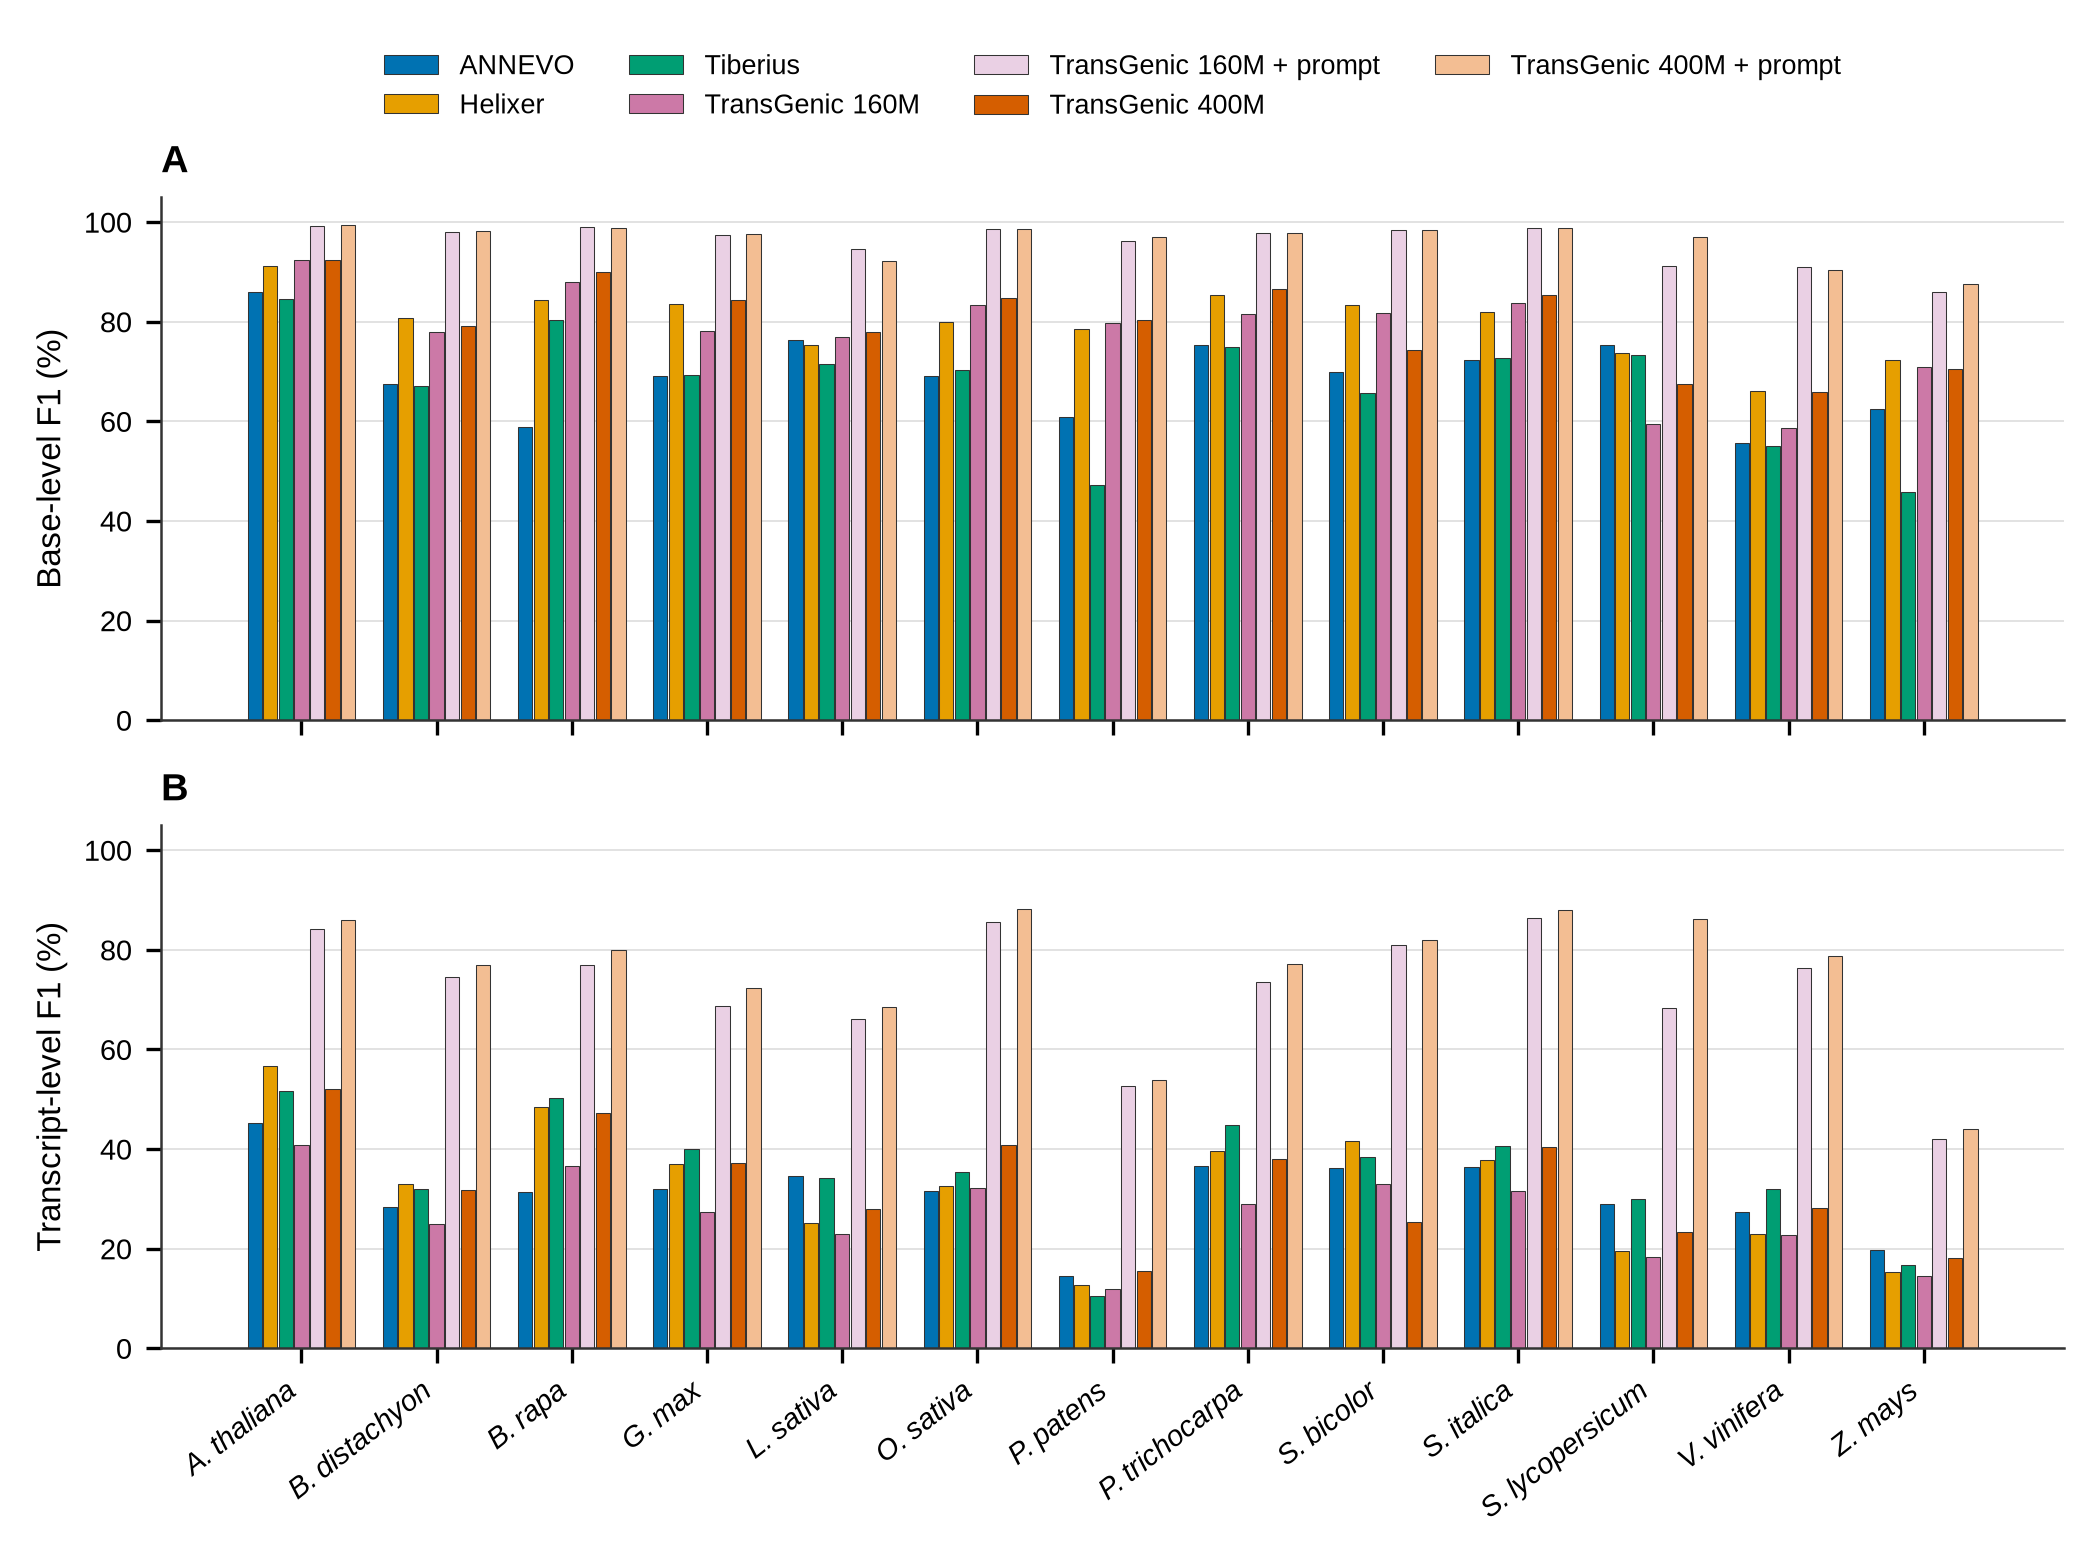
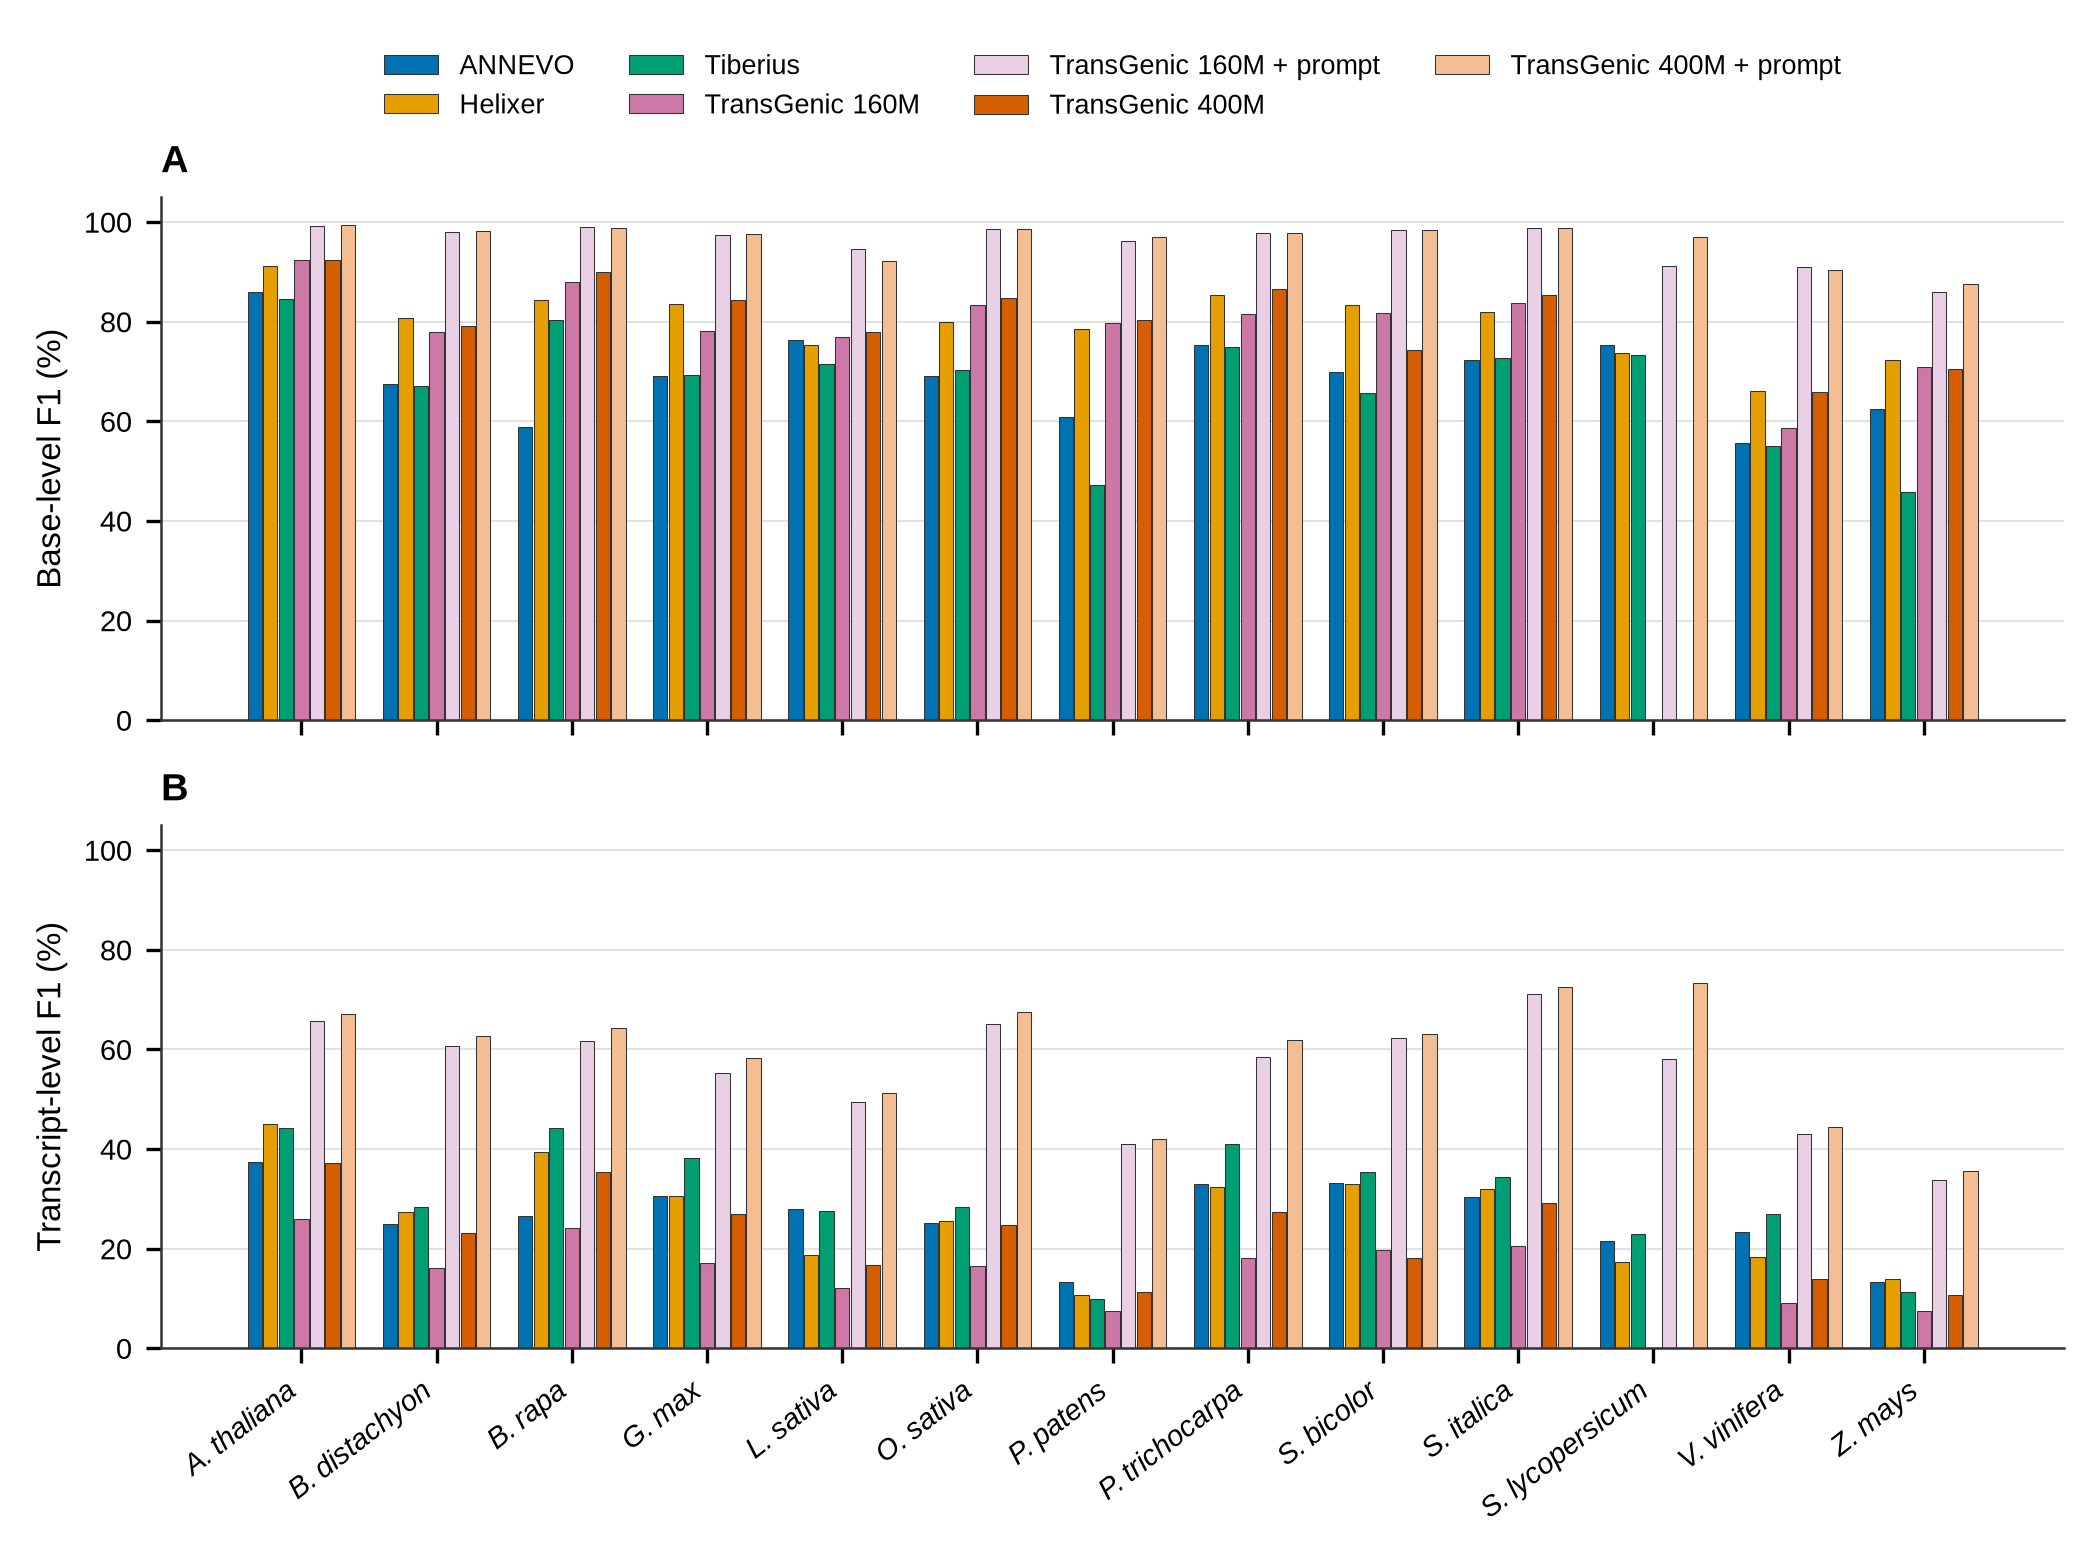
Score the benchmark and the isoform analyses with the same GFFCompare release
Table S2 and Figure 5 used GFFCompare v0.12.10; every isoform analysis used v0.12.6.
Scoring the same top-beam A. thaliana completion-mode prediction against the same
reference gives transcript-level 79.3/93.7 under v0.12.10 and 62.0/73.3 under v0.12.6.
The paper printed both scales without a way to reconcile them, and the gap read as a
contradiction between two of its own figures.

29_rescore_benchmark_v0126.py re-scores all 128 species-tool combinations on v0.12.6,
so Figure 5 and Figure 6 now share a scale: A. thaliana completion mode is 67.2 F1 in
the benchmark against 67.6 in the isoform evaluation, the residual difference being the
reference file and the isoform pipeline's collapsing of duplicate matches. Base-level
values are identical between releases, so Figure 5A and the "8 of 13 species" claim are
unaffected. Transcript-level values fall across the board — v0.12.10 is the more
permissive release — and the completion-mode margin over the best de novo tool is 17 to
48 F1 points, not 24 to 53.

Table S10 now records one release for the main analyses and flags the chromosome-4
pilot, which was run earlier on v0.12.10, as not poolable.

Also in this pass: Tiberius is additionally cited as Gabriel et al. 2026, the paper its
authors ask non-mammalian users to cite, since the models benchmarked here are the
plant ones.

163/163 checks, citations 57 = 57.

diff --git a/revision/scripts/29_rescore_benchmark_v0126.py b/revision/scripts/29_rescore_benchmark_v0126.py
@@ -1,0 +1,161 @@
+#!/usr/bin/env python3
+"""Re-score the 13-species benchmark with GFFCompare v0.12.6, the release used elsewhere.
+
+Table S2 and Figure 5 were produced with GFFCompare **v0.12.10**; every isoform-level
+analysis in the paper (Table S4, Figure 6) uses **v0.12.6**. The two releases do not agree
+on transcript-level matching, and the gap is large enough to look like a contradiction in
+print: scoring the same top-beam *A. thaliana* completion-mode prediction against the same
+reference gives transcript-level 79.3/93.7 under v0.12.10 and 62.0/73.3 under v0.12.6 —
+the latter matching the 61.9/74.4 the isoform pipeline reports.
+
+Rather than ask a reader to hold two incompatible scales in mind, this re-scores the whole
+benchmark on v0.12.6 so Figure 5 and Figure 6 share one. Every tool and mode is re-scored,
+not just TransGenic's, so the comparison between tools stays internally consistent.
+
+The completion-mode TransGenic predictions are filtered to the top-ranked beam first, for
+the reason given in `27_rescore_prompted_topbeam.py`.
+
+Usage:
+    python 29_rescore_benchmark_v0126.py [--out gffcompare_summary_v0126.csv] [--jobs 4]
+"""
+
+from __future__ import annotations
+
+import argparse
+import csv
+import re
+import subprocess
+import sys
+import tempfile
+from concurrent.futures import ThreadPoolExecutor
+from pathlib import Path
+
+ROOT = Path(__file__).resolve().parents[3]
+CMP = ROOT / "transgenic_comparison"
+STD = CMP / "standardized_results"
+REF = CMP / "reference_annotations"
+GFFCOMPARE = Path("/data/gpfs/assoc/pgl/bin/conda/conda_envs/transgenic-revision/bin/gffcompare")
+
+REFERENCES = {
+    "A_thaliana": "Athaliana_167_TAIR10.gene.clean.gff3",
+    "B_distachyon": "Bdistachyon_314_v3.1.gene_exons.clean.gff3",
+    "B_rapa": "BrapaO_302V_711_v1.1.gene.gff3",
+    "G_max": "Gmax_880_Wm82.a6.v1.gene_exons.clean.gff3",
+    "L_sativa": "Lsativa_467_v5.gene_exons.gff3",
+    "O_sativa": "Osativa_323_v7.0.gene_exons.exon.gff3",
+    "P_patens": "Ppatens_318_v3.3.gene_exons.clean.gff3",
+    "P_trichocarpa": "Ptrichocarpa_533_v4.1.gene_exons.clean.gff3",
+    "S_bicolor": "Sbicolor_730_v5.1.gene_exons.clean.gff3",
+    "S_italica": "Sitalica_312_v2.2.gene_exons.clean.gff3",
+    "S_lycopersicum": "Slycopersicum_796_ITAG5.0.gene.gff3",
+    "V_vinifera": "Vvinifera_PN40024_5.1_on_T2T_ref.exon.gff3",
+    "Z_mays": "Zmays_493_RefGen_V4.gene_exons.exon.gff3",
+}
+
+# These export both beam hypotheses per locus and must be filtered before scoring.
+TOP_BEAM_TOOLS = {"transgenic400Mprompt"}
+
+
+def top_beam(src: Path, dst: Path) -> None:
+    gm_re = re.compile(r"GM=([^;\s]+)")
+    seen: set[str] = set()
+    keep: set[str] = set()
+    with src.open() as fh, dst.open("w") as out:
+        for line in fh:
+            if line.startswith("#"):
+                out.write(line)
+                continue
+            f = line.rstrip("\n").split("\t")
+            if len(f) < 9:
+                continue
+            m = gm_re.search(f[8])
+            if not m:
+                continue
+            if f[2] == "gene":
+                gm = m.group(1)
+                if gm in seen:
+                    continue
+                seen.add(gm)
+                gid = re.search(r"ID=([^;]+)", f[8])
+                if gid:
+                    keep.add(gid.group(1))
+                out.write(line)
+                continue
+            parent = re.search(r"Parent=([^;]+)", f[8])
+            ident = re.search(r"ID=([^;]+)", f[8])
+            if not parent:
+                continue
+            if parent.group(1).split(".t")[0] in keep or parent.group(1) in keep:
+                if ident:
+                    keep.add(ident.group(1))
+                out.write(line)
+
+
+def parse_stats(path: Path) -> dict[str, float]:
+    out: dict[str, float] = {}
+    pat = re.compile(r"^\s*([A-Za-z ]+?) level:\s*([\d.-]+)\s*\|\s*([\d.-]+)")
+    for line in path.read_text().splitlines():
+        m = pat.match(line)
+        if m:
+            out[m.group(1).strip() + "_Sn"] = float(m.group(2))
+            out[m.group(1).strip() + "_Pr"] = float(m.group(3))
+    return out
+
+
+def score(job: tuple[str, str, Path]) -> dict | None:
+    species, tool, tmp = job
+    src = STD / f"{species}_{tool}.gff3"
+    ref = REF / REFERENCES[species]
+    if not src.exists() or not ref.exists():
+        print(f"  skip {species}/{tool}: missing input", file=sys.stderr)
+        return None
+    query = src
+    if tool in TOP_BEAM_TOOLS:
+        query = tmp / f"{species}_{tool}_top.gff3"
+        top_beam(src, query)
+    prefix = tmp / f"{species}_{tool}"
+    try:
+        subprocess.run([str(GFFCOMPARE), "-r", str(ref), "-o", str(prefix), str(query)],
+                       check=True, capture_output=True)
+    except subprocess.CalledProcessError as e:
+        print(f"  FAIL {species}/{tool}: {e.stderr.decode()[:120]}", file=sys.stderr)
+        return None
+    st = parse_stats(prefix.with_suffix(".stats"))
+    print(f"  {species:<16} {tool:<28} base {st.get('Base_Sn')}/{st.get('Base_Pr')}  "
+          f"tx {st.get('Transcript_Sn')}/{st.get('Transcript_Pr')}", file=sys.stderr)
+    return {
+        "Species": species, "Tool": tool,
+        "Base_Sensitivity": st.get("Base_Sn"), "Base_Precision": st.get("Base_Pr"),
+        "Exon_Sensitivity": st.get("Exon_Sn"), "Exon_Precision": st.get("Exon_Pr"),
+        "Transcript_Sensitivity": st.get("Transcript_Sn"),
+        "Transcript_Precision": st.get("Transcript_Pr"),
+    }
+
+
+def main() -> int:
+    ap = argparse.ArgumentParser()
+    ap.add_argument("--out", type=Path, default=CMP / "gffcompare_summary_v0126.csv")
+    ap.add_argument("--jobs", type=int, default=4)
+    args = ap.parse_args()
+
+    assert GFFCOMPARE.exists(), f"gffcompare v0.12.6 not found at {GFFCOMPARE}"
+    existing = list(csv.DictReader((CMP / "gffcompare_summary.csv").open()))
+    jobs_src = [(r["Species"], r["Tool"]) for r in existing]
+
+    tmp = Path(tempfile.mkdtemp(prefix="v0126_", dir=str(CMP)))
+    with ThreadPoolExecutor(max_workers=args.jobs) as ex:
+        rows = [r for r in ex.map(score, [(s, t, tmp) for s, t in jobs_src]) if r]
+
+    with args.out.open("w", newline="") as fh:
+        w = csv.DictWriter(fh, fieldnames=list(rows[0].keys()))
+        w.writeheader()
+        w.writerows(rows)
+    print(f"written: {args.out} ({len(rows)}/{len(jobs_src)} rows)", file=sys.stderr)
+    for p in sorted(tmp.rglob("*"), reverse=True):
+        p.unlink() if p.is_file() else p.rmdir()
+    tmp.rmdir()
+    return 0
+
+
+if __name__ == "__main__":
+    raise SystemExit(main())

diff --git a/revision/scripts/20_build_supplementary_tables.py b/revision/scripts/20_build_supplementary_tables.py
@@ -193,11 +193,14 @@ def build(out: Out) -> None:
     out.table(
         "TableS2_gffcompare_benchmark",
         "Table S2. GFFCompare benchmark across 13 plant species",
-        "Source: `transgenic_comparison/gffcompare_summary.csv` (GFFCompare v0.12.10); the "
-        "*TransGenic 400M, reference-prompted* rows were re-scored from the top-ranked beam by "
-        "`revision/scripts/27_rescore_prompted_topbeam.py`, because the source GFF3 for that "
-        "configuration exported both beam hypotheses as separate gene records (54,826 gene "
-        "records for 27,413 A. thaliana loci), so every row of this table now reports the top beam. "
+        "Source: `transgenic_comparison/gffcompare_summary.csv`, produced by "
+        "`revision/scripts/29_rescore_benchmark_v0126.py` with **GFFCompare v0.12.6**, the same "
+        "release used for the isoform analyses in Table S4 and Figure 6, so the two are directly "
+        "comparable. An earlier version of this table used v0.12.10, which scores transcript-level "
+        "matches more permissively; base-level values are identical between the releases. The "
+        "*TransGenic 400M, reference-prompted* rows are additionally filtered to the top-ranked "
+        "beam, because the source GFF3 for that configuration exported both beam hypotheses as "
+        "separate gene records (54,826 gene records for 27,413 A. thaliana loci). "
         "ANNEVO, Helixer, and Tiberius were run on whole-genome sequences; TransGenic was "
         "run on individual reference-annotated single-gene loci, a setting that does not "
         "require gene-boundary resolution and therefore favours TransGenic (see Discussion). "
@@ -505,7 +508,7 @@ def build(out: Out) -> None:
 
     # ----------------------------------------------------- Table S10 ----
     s10 = [
-        ["GFFCompare", "v0.12.10", "13-species benchmark (Table S2, Figure 5)",
+        ["GFFCompare", "v0.12.6", "13-species benchmark (Table S2, Figure 5)",
          "`gffcompare -r <reference.gff3> -o <prefix> <prediction.gff3>`"],
         ["GFFCompare", "v0.12.6", "Isoform, alternative-transcript-only, and splice-event analyses (Tables S4a–c)",
          "`gffcompare -r <reference.gtf> -o <prefix> <prediction.gff3>`"],
@@ -538,10 +541,11 @@ def build(out: Out) -> None:
     out.table(
         "TableS10_software_versions",
         "Table S10. Software versions and command lines",
-        "Every tool that produced a number reported in the manuscript. Two GFFCompare "
-        "versions were used: v0.12.10 for the cross-species benchmark and v0.12.6 for the "
-        "isoform analyses; because GFFCompare accuracy definitions differ slightly between "
-        "releases, values from the two sets of analyses should not be pooled.",
+        "Every tool that produced a number reported in the manuscript. All GFFCompare scoring "
+        "in the main analyses uses v0.12.6; the chromosome-4 pilot (Table S9) was run earlier "
+        "with v0.12.10 and is reported separately. Transcript-level definitions differ between "
+        "the two releases — v0.12.10 is the more permissive — while base-level values are "
+        "identical, so values from the pilot should not be pooled with the rest.",
         ["Tool", "Version", "Use", "Command line"],
         s10,
     )
